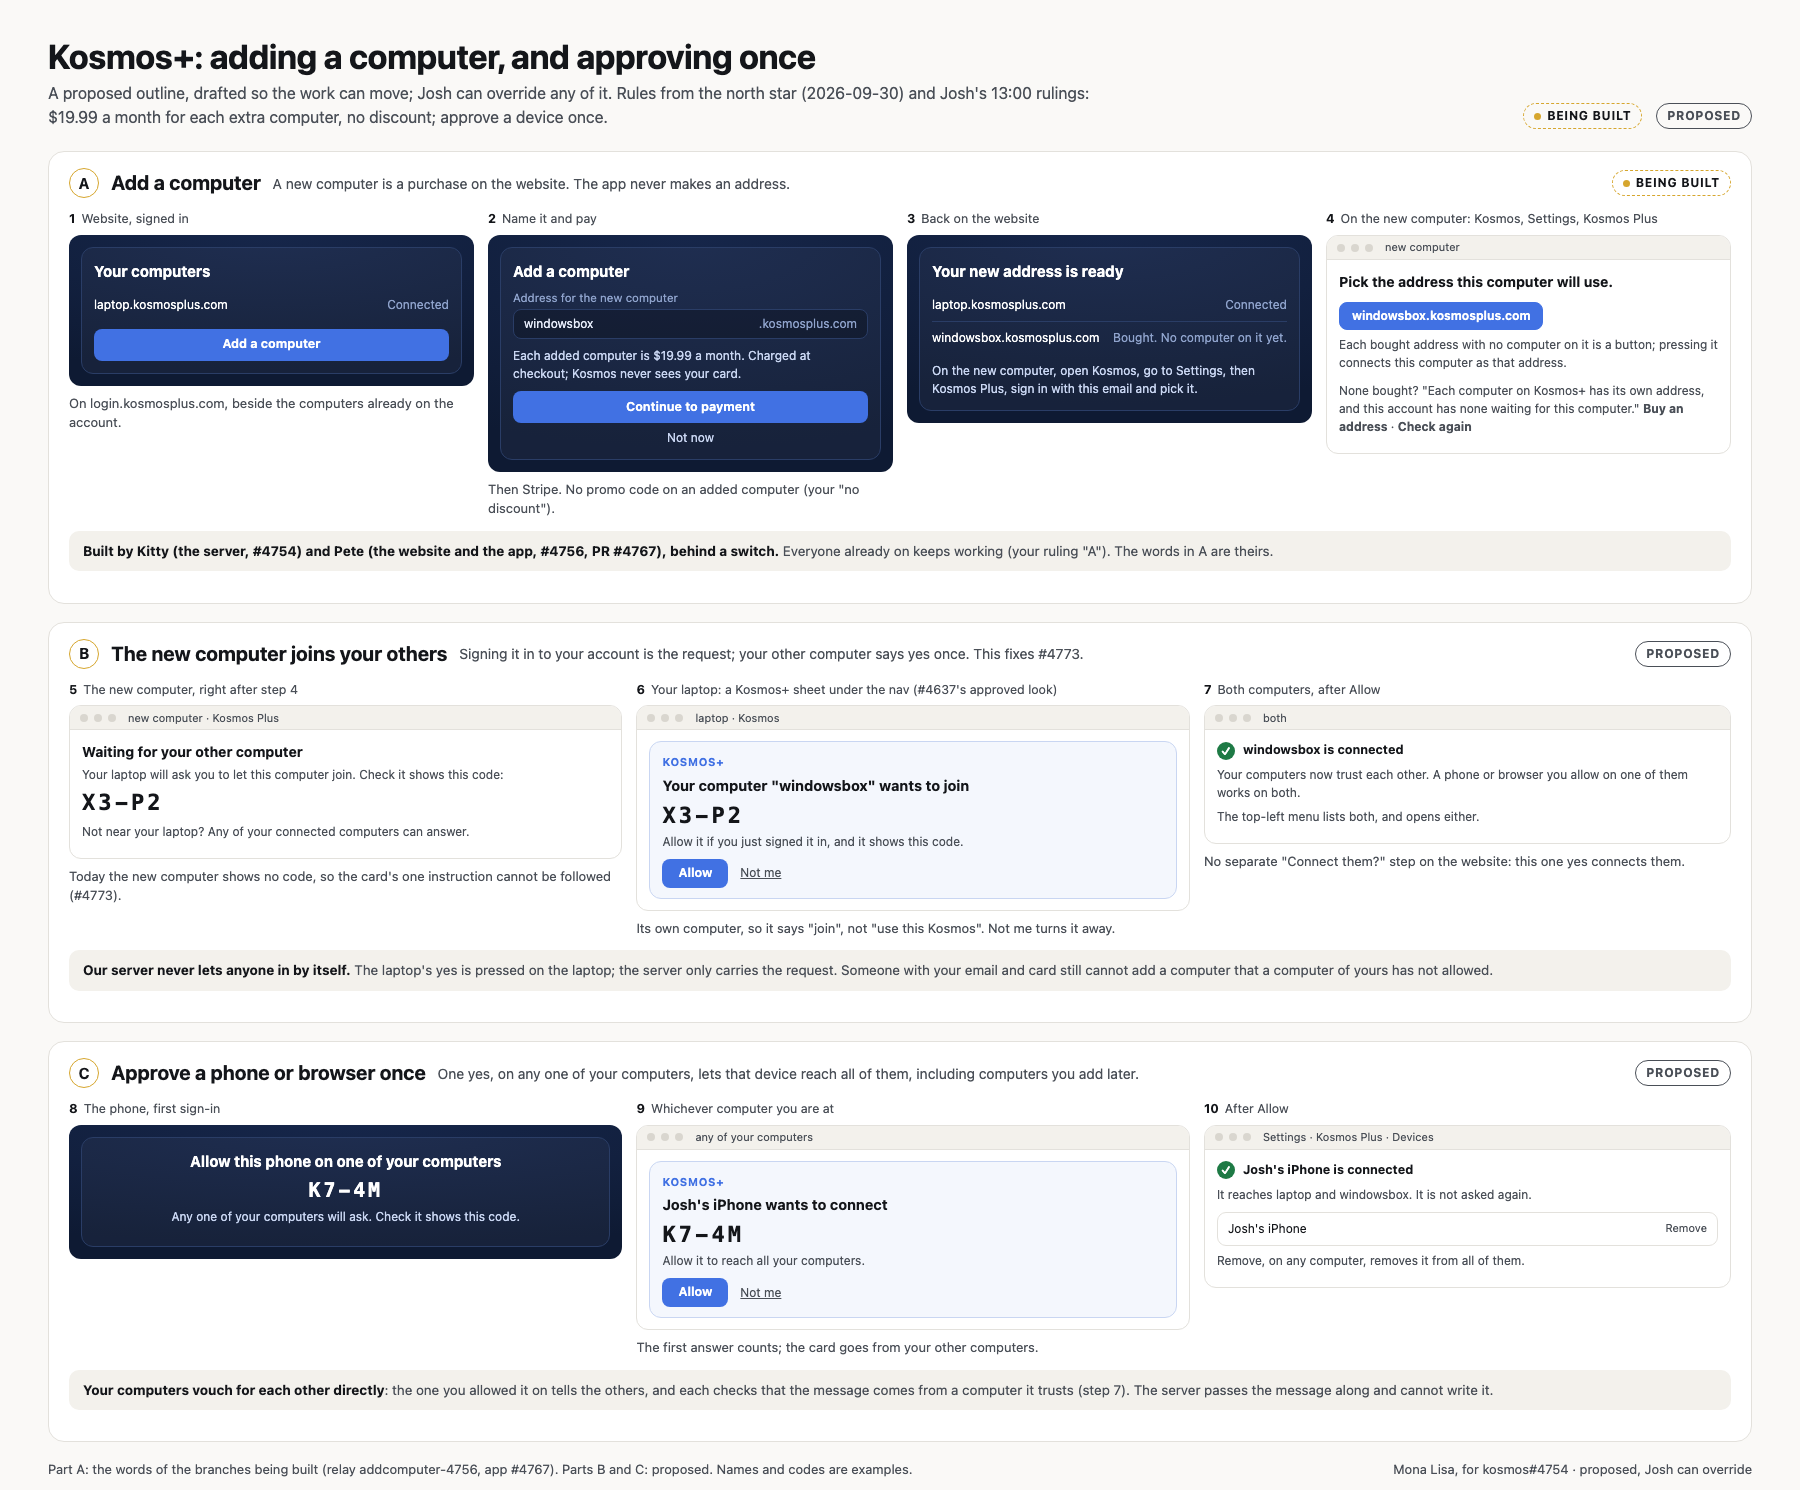
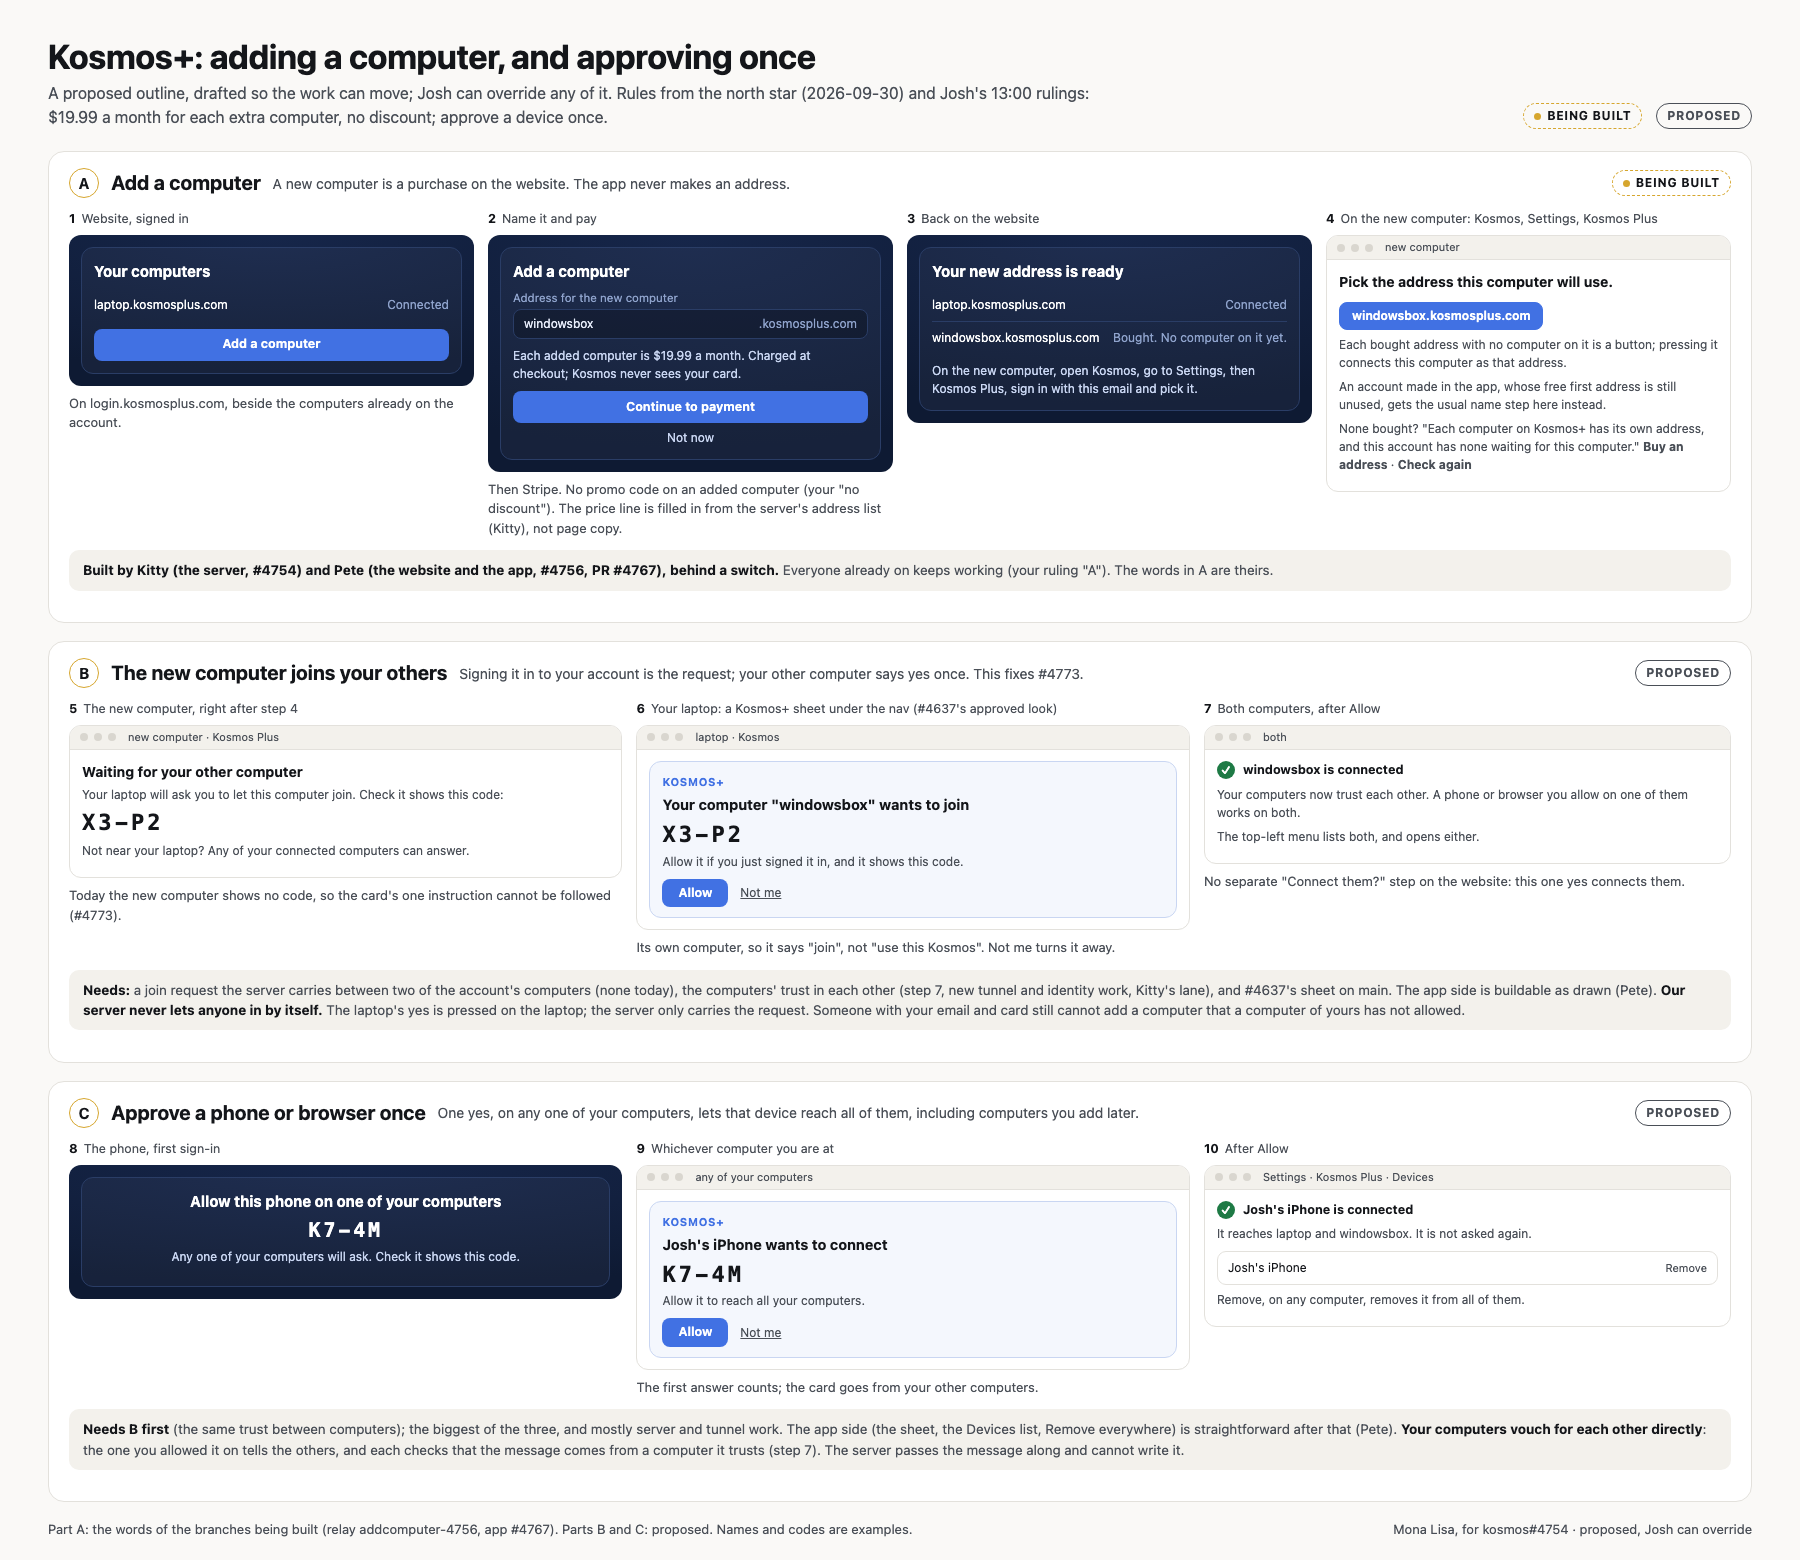
card-shots: #4754 outline, Pete's corrections and the B/C dependencies

diff --git a/4754/plus-flow-outline.html b/4754/plus-flow-outline.html
@@ -103,7 +103,7 @@ body { margin: 0; background: var(--bg); color: var(--ink); font: 15px/1.5 -appl
           <div class="in">windowsbox<span style="margin-left:auto;color:var(--sky-2)">.kosmosplus.com</span></div>
           <p style="margin:8px 0 0">Each added computer is $19.99 a month. Charged at checkout; Kosmos never sees your card.</p>
           <div class="go">Continue to payment</div><div class="lnk">Not now</div></div></div>
-        <p class="cap">Then Stripe. No promo code on an added computer (your "no discount").</p></div>
+        <p class="cap">Then Stripe. No promo code on an added computer (your "no discount"). The price line is filled in from the server's address list (Kitty), not page copy.</p></div>
       <div class="sc"><p class="where"><b>3</b> Back on the website</p>
         <div class="web"><div class="card">
           <h3>Your new address is ready</h3>
@@ -115,7 +115,8 @@ body { margin: 0; background: var(--bg); color: var(--ink); font: 15px/1.5 -appl
           <h3>Pick the address this computer will use.</h3>
           <span class="btn blue" style="margin-top:6px">windowsbox.kosmosplus.com</span>
           <p style="margin-top:6px">Each bought address with no computer on it is a button; pressing it connects this computer as that address.</p>
-          <p style="margin-top:10px">None bought? "Each computer on Kosmos+ has its own address, and this account has none waiting for this computer." <b>Buy an address</b> · <b>Check again</b></p>
+          <p style="margin-top:6px">An account made in the app, whose free first address is still unused, gets the usual name step here instead.</p>
+          <p style="margin-top:6px">None bought? "Each computer on Kosmos+ has its own address, and this account has none waiting for this computer." <b>Buy an address</b> · <b>Check again</b></p>
         </div></div></div>
     </div>
     <p class="rule"><b>Built by Kitty (the server, #4754) and Pete (the website and the app, #4756, PR #4767), behind a switch.</b> Everyone already on keeps working (your ruling "A"). The words in A are theirs.</p>
@@ -150,7 +151,7 @@ body { margin: 0; background: var(--bg); color: var(--ink); font: 15px/1.5 -appl
         </div></div>
         <p class="cap">No separate "Connect them?" step on the website: this one yes connects them.</p></div>
     </div>
-    <p class="rule"><b>Our server never lets anyone in by itself.</b> The laptop's yes is pressed on the laptop; the server only carries the request. Someone with your email and card still cannot add a computer that a computer of yours has not allowed.</p>
+    <p class="rule"><b>Needs:</b> a join request the server carries between two of the account's computers (none today), the computers' trust in each other (step 7, new tunnel and identity work, Kitty's lane), and #4637's sheet on main. The app side is buildable as drawn (Pete). <b>Our server never lets anyone in by itself.</b> The laptop's yes is pressed on the laptop; the server only carries the request. Someone with your email and card still cannot add a computer that a computer of yours has not allowed.</p>
   </section>
 
   <!-- C -->
@@ -179,7 +180,7 @@ body { margin: 0; background: var(--bg); color: var(--ink); font: 15px/1.5 -appl
           <p style="margin-top:6px">Remove, on any computer, removes it from all of them.</p>
         </div></div></div>
     </div>
-    <p class="rule"><b>Your computers vouch for each other directly</b>: the one you allowed it on tells the others, and each checks that the message comes from a computer it trusts (step 7). The server passes the message along and cannot write it.</p>
+    <p class="rule"><b>Needs B first</b> (the same trust between computers); the biggest of the three, and mostly server and tunnel work. The app side (the sheet, the Devices list, Remove everywhere) is straightforward after that (Pete). <b>Your computers vouch for each other directly</b>: the one you allowed it on tells the others, and each checks that the message comes from a computer it trusts (step 7). The server passes the message along and cannot write it.</p>
   </section>
 
   <div class="foot"><span>Part A: the words of the branches being built (relay addcomputer-4756, app #4767). Parts B and C: proposed. Names and codes are examples.</span><span>Mona Lisa, for kosmos#4754 · proposed, Josh can override</span></div>
